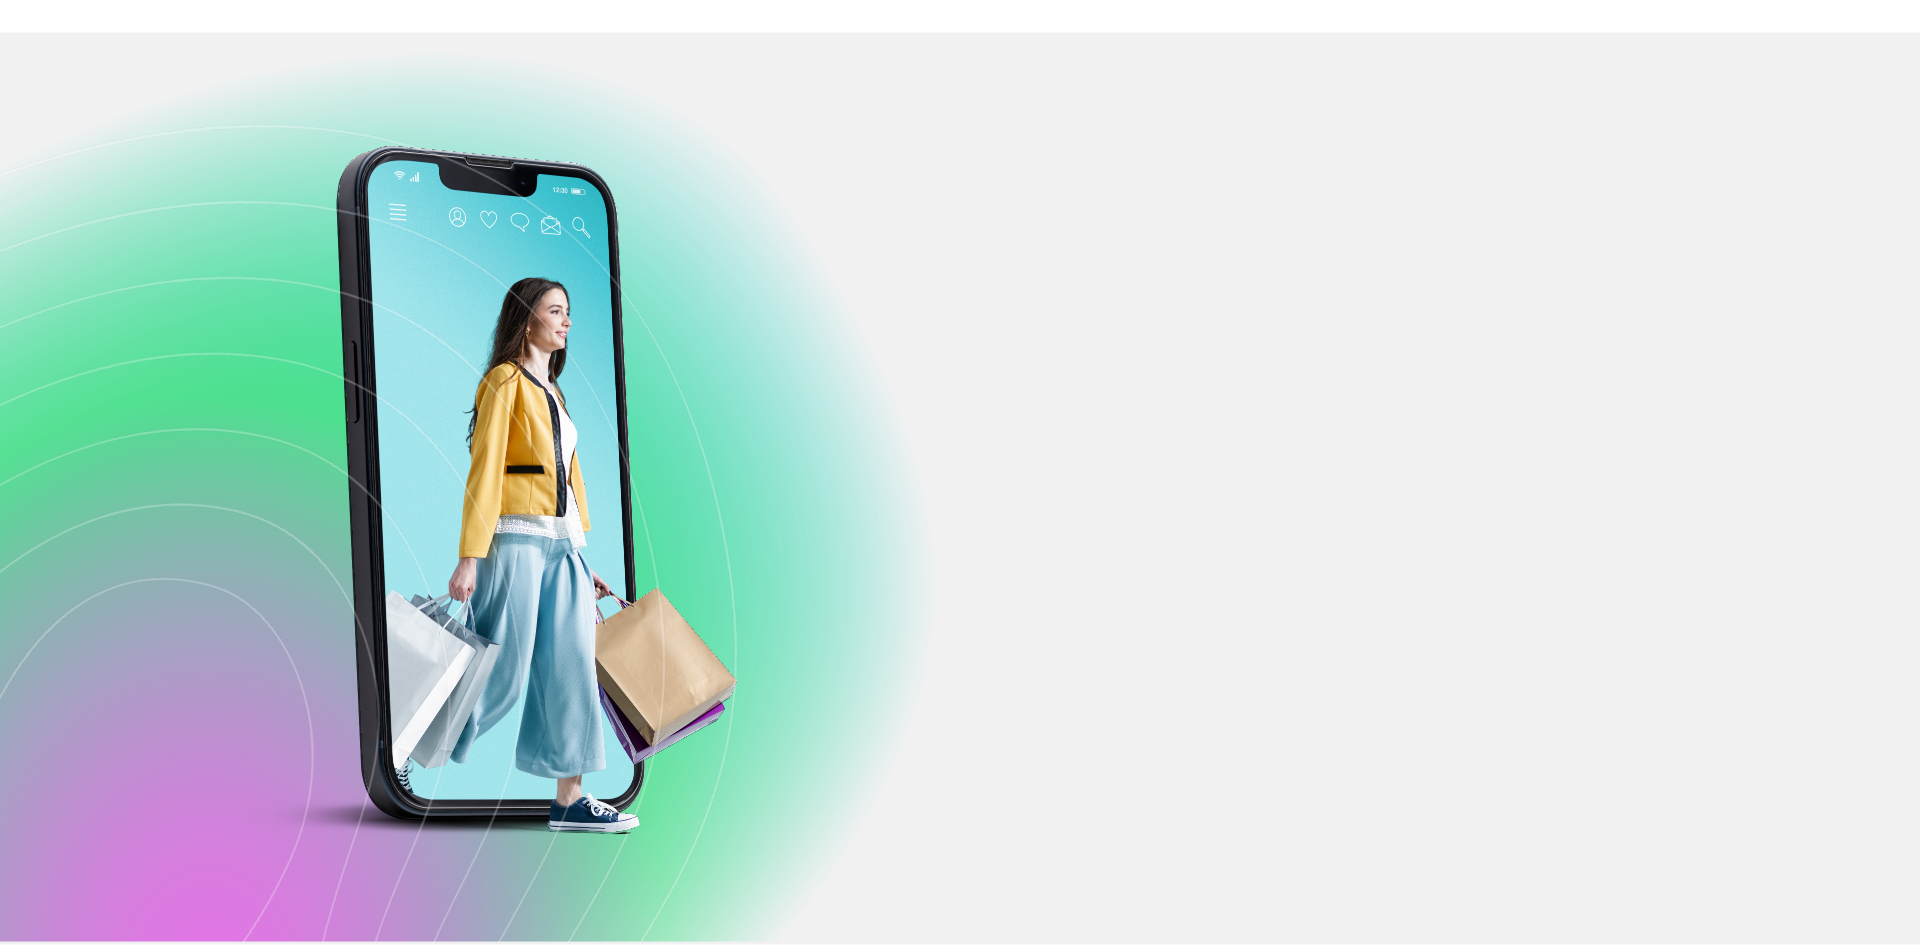
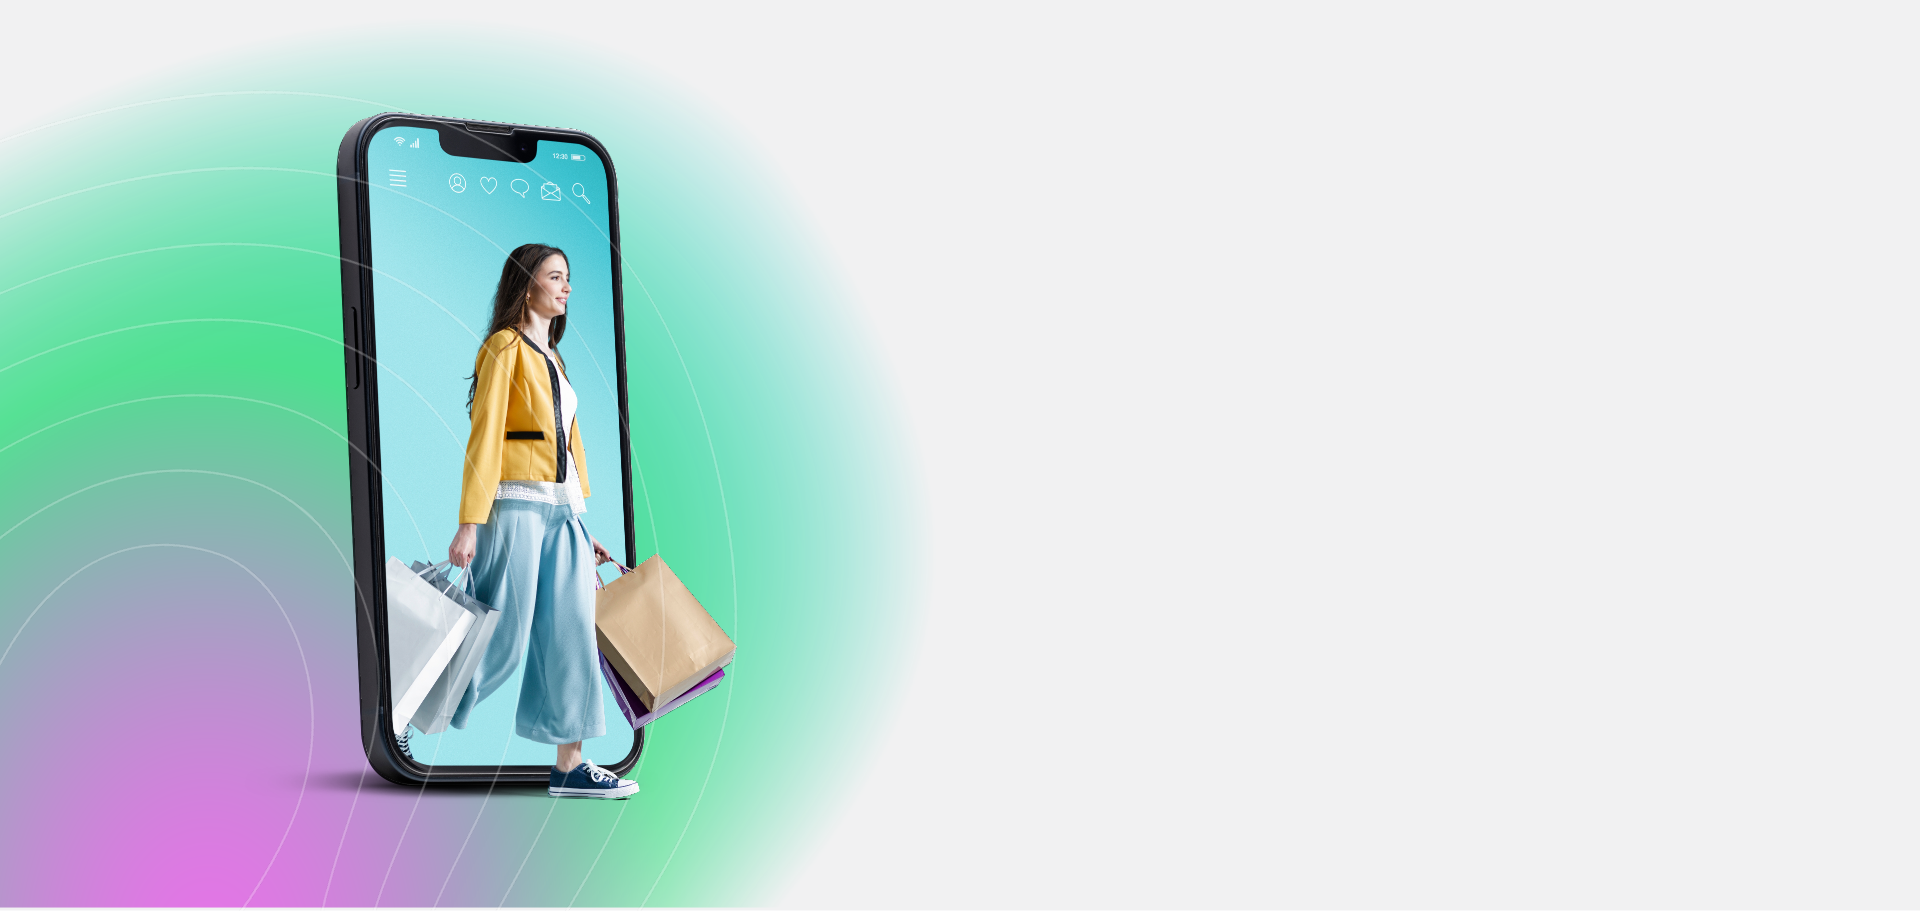
home page completed

diff --git a/index.html b/index.html
@@ -54,7 +54,7 @@
                   </ul>
                   <ul class="navbar-nav navbar-center">
                      <li class="nav-item">
-                        <span class="btn-light-border"><a class="btn btn-light" href="#book-demo">Book a demo <i class="fa fa-angle-right ml-1"></i></a></span>
+                        <span class="btn-light-border"><a class="btn btn-light py-2" href="#book-demo">Book a demo </a></span>
                      </li>
                   </ul>
                </div>
@@ -73,7 +73,7 @@
                      <h2 class="main-heading pt-sm-5 my-5 wow fadeInUp" data-wow-delay="0.3s">Uncovering in-store data blind spots and transforming it into growth
                      </h2>
                      
-                      <a href="#book-demo" class="btn btn-primary book-demo py-3 px-5">BOOK A DEMO</a>
+                      <a href="#book-demo" class="btn btn-primary book-demo py-3 px-5 wow fadeInLeft" data-wow-delay="0.5s">BOOK A DEMO</a>
 
                   </div>
                </div>
@@ -82,15 +82,15 @@
 
          
          <!-- gain-section -->
-         <section class="gain-section" id="our-solution" style="background-image: url('assets/images/gain-bg.png');">
+         <section class="gain-section wow fadeIn" data-wow-delay="0.1s" id="our-solution" style="background-image: url('assets/images/gain-bg.png');">
             <div class="container">
 
                   <div class="row justify-content-center">
                      <div class=" col-12 text-center">
-                        <h2 class="main-heading text-white">Gain a competitive advantage</h2>
-                        <h4 class="main-para">With more than 300 data points about your shopper interactions</h4>
+                        <h2 class="main-heading text-white  wow fadeInUp" data-wow-delay="0.3s">Gain a competitive advantage</h2>
+                        <h4 class="main-para  wow fadeInUp" data-wow-delay="0.5s">With more than 300 data points about your shopper interactions</h4>
                      </div>
-                     <div class=" col-12 col-lg-10 col-xl-8 text-center">
+                     <div class=" col-12 col-lg-10 col-xl-8 text-center  wow fadeInUp" data-wow-delay="0.7s">
                         
                         <div id="gain" class="owl-carousel owl-theme">
                            <div class="item">
@@ -126,7 +126,7 @@
                <div class="row align-items-center justify-content-between">
                   <div class="col-lg-7 col-xl-6 mb-4 mb-lg-0">
                      <h2 class="main-heading wow fadeInDown" data-wow-delay="0.3s">From video footage to increasing in-store ROI</h2>
-                     <p class="mini-text fadeInUp" data-wow-delay="0.4s">Lorem ipsum dolor sit amet, consectetur adipiscing elit, sed do eiusmod tempor incididunt ut labore et dolore magna aliqua. Ut enim ad minim veniam, quis nostrud exercitation ullamco laboris nisi ut aliquip ex ea commodo consequat. Lorem ipsum dolor sit amet, consectetur adipiscing elit, sed do eiusmod tempor
+                     <p class="mini-text  wow fadeInUp" data-wow-delay="0.4s">Lorem ipsum dolor sit amet, consectetur adipiscing elit, sed do eiusmod tempor incididunt ut labore et dolore magna aliqua. Ut enim ad minim veniam, quis nostrud exercitation ullamco laboris nisi ut aliquip ex ea commodo consequat. Lorem ipsum dolor sit amet, consectetur adipiscing elit, sed do eiusmod tempor
                      </p>
                   </div>
                   <div class="col-lg-5 col-xl-6 text-center text-lg-right wow fadeInRight" data-wow-delay="0.4s">
@@ -136,20 +136,64 @@
             </div>
          </section>
 
+           <!-- Our onboarding -->
+           <section class="our-onboarding bg-white" id="onboarding">
+            <div class="container">
+               <h2 class="main-heading text-center pb-md-5 wow fadeInDown" data-wow-delay="0.3s">Effortless and seamless onboarding</h2>
+            </div>
+            <div class="position-relative">
+               <div class="container">
+               
+                  <div class="row text-center">
+                     <div class="col-sm-6 col-lg-3 step-card wow fadeInRight" data-wow-delay="0.3s">
+                        <h3 class="main-heading ">1</h3>
+                        <div class="step-bg">
+                           <img class="img-fluid" src="assets/images/onboarding/integrate.png" alt="integrate">
+                        </div>
+                        <h5>Seamless integration <br> with in-store cameras</h5>
+                     </div>
+                     <div class="col-sm-6 col-lg-3 step-card wow fadeInRight" data-wow-delay="0.5s">
+                        <h3 class="main-heading">2</h3>
+                        <div class="step-bg">
+                           <img class="img-fluid" src="assets/images/onboarding/data.png" alt="data">
+                        </div>
+                        <h5>Receive valuable <br> data after one week</h5>
+                     </div>
+                     <div class="col-sm-6 col-lg-3 step-card wow fadeInRight" data-wow-delay="0.7s">
+                        <h3 class="main-heading ">3</h3>
+                        <div class="step-bg">
+                           <img class="img-fluid" src="assets/images/onboarding/insights.png" alt="insights">
+                        </div>
+                        <h5>Gain game-changing <br> insights about your shoppers</h5>
+                     </div>
+                     <div class="col-sm-6 col-lg-3 step-card wow fadeInRight" data-wow-delay="0.9s">
+                        <h3 class="main-heading ">4</h3>
+                        <div class="step-bg">
+                           <img class="img-fluid" src="assets/images/onboarding/results.png" alt="results">
+                        </div>
+                        <h5>Immediate results <br> after implementing insights at stores</h5>
+                     </div>
+                  </div>
+               </div>
+               <img class="bg-img d-none d-lg-inline  wow fadeInDown" data-wow-delay="0.3s" src="assets/images/onboarding-bg.png" alt="results">
+   
+            </div>
+         </section>
+
          <!-- Hero-section -->
          <section class="hero-section insights-section" >
-            <img class="bg-img" src="assets/images/mobile.png">
+            <img class="bg-img  wow fadeInLeft" data-wow-delay="0.1s" src="assets/images/mobile.png">
             
             <div class="container">
                <div class="row position-relative align-items-center justify-content-end text-center">
                   <div class="col-11 col-md-9 col-lg-7">
                      <h2 class="main-heading pt-sm-5 wow fadeInUp" data-wow-delay="0.3s">Most valuable insights <br> In one platform
                      </h2>
-                     <p class="main-para fadeInUp">
+                     <p class="main-para  wow fadeInDown" data-wow-delay="0.5s">
                         Improving in-store shoppers experience <br> is not a NICE-TO-HAVE tool It’s a MUST-HAVE key to revenue increments
                      </p>
                       
-                      <span class="btn-light-border mt-4">
+                      <span class="btn-light-border mt-4  wow fadeInDown" data-wow-delay="0.6s">
                         <a href="#book-demo" class="btn btn-light book-demo py-3 px-5">Book a Demo</a>
                       </span>
                   </div>
@@ -162,9 +206,9 @@
             <div class="container">
                <div class="row">
                   <div class="col-12 text-center">
-                     <h2 class="main-heading mb-1 pt-md-5">Know your shopper globally</h2>
-                     <h4 class="main-para">Real-time data on a local and global scale</h4>
-                     <img class="img-fluid" src="assets/images/alerts-usa-map.png" alt="">
+                     <h2 class="main-heading mb-1 pt-md-5 wow fadeInDown" data-wow-delay="0.1s">Know your shopper globally</h2>
+                     <h4 class="main-para  wow fadeInDown" data-wow-delay="0.3s">Real-time data on a local and global scale</h4>
+                     <img class="img-fluid  wow fadeInUp" data-wow-delay="0.3s" src="assets/images/alerts-usa-map.png" alt="">
                   </div>
                </div>
             </div>
@@ -173,7 +217,7 @@
          <!-- Testemonials -->
          <section class="testemonial" id="case-studies">
             <div class="container">
-               <div class="row justify-content-center">
+               <div class="row justify-content-center wow fadeInRight" data-wow-delay="0.1s">
                   <div class="col-lg-8">
                      <h4 class="main-heading text-center mb-4 mb-md-5 mt-3 wow fadeInUp" data-wow-delay="0.3s">Success stories</h4>
                      <div class="text-right">
@@ -240,7 +284,7 @@
                <div class="row trusted-block mt-5">
                   <div class="col-lg-12">
                      <ul>
-                        <li class="wow fadeInRight" data-wow-delay="0.6s"><a href="javascript:void(0)"></a><img src="assets/images/partner/pg.png" alt="pg"></li>
+                        <li class="wow fadeInRight" data-wow-delay="0.1s"><a href="javascript:void(0)"></a><img src="assets/images/partner/pg.png" alt="pg"></li>
                         <li class="wow fadeInRight" data-wow-delay="0.3s"><a href="javascript:void(0)"></a><img src="assets/images/partner/nestle.png" alt="Nestle"></li>
                         <li class="wow fadeInRight" data-wow-delay="0.4s"><a href="javascript:void(0)"></a><img src="assets/images/partner/coca-cola.png" alt="Coca Cola"></li>
                         <li class="wow fadeInRight" data-wow-delay="0.5s"><a href="javascript:void(0)"></a><img src="assets/images/partner/strauss.png" alt="Strauss"></li>
@@ -257,6 +301,8 @@
       <!-- Footer -->
       <footer id="book-demo">
          <section>
+            <img class="bg-img wow fadeInLeft" data-wow-delay="0.3s" src="assets/images/man-with-mobile.png" alt="results">
+
             <div class="container">
                <div class="row justify-content-end">
                   
@@ -264,39 +310,45 @@
                      <!-- <img src="assets/images/man-with-mobile.png" alt=""> -->
                   </div>
                   <div class="col-lg-6">
-                     <h2 class="main-heading text-center pb-md-5">Want truly understand your shopper?</h2>
-                     <form class="pt-4">
+                     <h2 class="main-heading text-center pb-md-5 wow fadeInUp" data-wow-delay="0.3s">Want truly understand your shopper?</h2>
+                     <form class="pt-4 wow fadeInUp" data-wow-delay="0.1s">
                         <div class="row">
-                           <div class="col-md-6">
+                           <div class="col-md-6 wow fadeInRight" data-wow-delay="0.1s">
                               <div class="form-group">
                                  <input type="text" class="form-control" placeholder="Full Name">
                               </div>
                            </div>
-                           <div class="col-md-6">
+                           <div class="col-md-6 wow fadeInRight" data-wow-delay="0.3s">
                               <div class="form-group">
                                  <input type="text" class="form-control" placeholder="Phone">
                               </div>
                            </div>
-                           <div class="col-md-12">
+                           <div class="col-md-12 wow fadeInRight" data-wow-delay="0.1s">
                               <div class="form-group">
                                  <input type="text" class="form-control" placeholder="Email">
                               </div>
                            </div>
                         </div>
                         <div class="row">
-                           <div class="col-md-6">
+                           <div class="col-md-6  wow fadeInRight" data-wow-delay="0.3s">
                               <div class="form-group">
                                  <input type="text" class="form-control" placeholder="Job Title">
                               </div>
                            </div>
                            <div class="col-md-6">
-                              <div class="form-group">
+                              <div class="form-group  wow fadeInRight" data-wow-delay="0.5s">
                                  <input type="text" class="form-control" placeholder="Company">
                               </div>
                            </div>
                         </div>
-                        <button type="submit" class="btn py-3 btn-light btn-block mt-5">Submit</button>
+                        <button type="submit" class="btn py-3 btn-light btn-block mt-5  wow fadeInRight" data-wow-delay="0.7s">Submit</button>
                      </form>
+
+                     <div class="d-flex justify-content-center mt-3">
+                        <a href="#" class="social-links  wow fadeInRight" data-wow-delay="0.3s"> <i class="fa-brands fa-linkedin"></i></a>
+                        <a href="#" class="social-links  wow fadeInRight" data-wow-delay="0.5s"> <i class="fa-brands fa-square-twitter"></i></a>
+                        <a href="#" class="social-links  wow fadeInRight" data-wow-delay="0.7s"> <i class="fa-brands fa-square-youtube"></i></a>
+                     </div>
                   </div>
                </div>
             </div>

diff --git a/assets/css/style.css b/assets/css/style.css
@@ -306,11 +306,62 @@ main {
     padding-top: 50px;
 }
 
+/* .Our onboarding  */
+.our-onboarding .row{
+    min-height: 250px;
+    z-index: 10;
+    position: relative;
+}
+.our-onboarding .step-card{
+    margin: 20px auto;
+}
+.our-onboarding .step-bg{
+    background-color: #fff;
+    display: inline-block;
+    height: 120px;
+    width: 120px;
+    display: flex;
+    justify-content: center;
+    align-items: center;
+    margin: 20px auto;
+}
+.our-onboarding .bg-img{
+    position: absolute;
+    z-index: 0;
+    object-fit: cover;
+    width: 100%;
+       height: 100%;
+    bottom:40px;
+    left: 0;
+    right: 0;
+    /*    transform: translate(-50%, -50%);*/
+}
+
 /* footer  */
 
 footer{
-    background: transparent linear-gradient(220deg, #4DDF8E 0%, #4CDE9D 10%, #4BDCAF 20%, #4ADAC0 30%, #49D8D2 40%, #49D5E4 50%, #77B8E4 60%, #9F9FE5 70%, #BF8AE5 80%, #D77CE5 90%, var(--unnamed-color-e275e6) 100%) 0% 0% no-repeat padding-box;
+    position: relative;
+    margin-top: 100px;
+    background: transparent linear-gradient(220deg, #4DDF8E 0%, #4CDE9D 10%, #4BDCAF 20%, #4ADAC0 30%, #49D8D2 40%, #49D5E4 50%, #77B8E4 60%, #9F9FE5 70%, #BF8AE5 80%, #D77CE5 90%, #e275e6 100%) 0% 0% no-repeat padding-box;
     background: transparent linear-gradient(220deg, #4DDF8E 0%, #4CDE9D 10%, #4BDCAF 20%, #4ADAC0 30%, #49D8D2 40%, #49D5E4 50%, #77B8E4 60%, #9F9FE5 70%, #BF8AE5 80%, #D77CE5 90%, #E275E6 100%) 0% 0% no-repeat padding-box;
+}
+footer .social-links{
+    color: #000000;
+    text-decoration: none;
+    font-size: 30px;
+    padding: 12px;
+}
+footer .social-links:hover{
+    color: #fff;
+}
+footer .bg-img{
+    position: absolute;
+    z-index: 0;
+    object-fit: cover;
+    /* width: 100%; */
+    bottom:0px;
+    /* left: -200px; */
+    /*    transform: translate(-50%, -50%);*/
 }
 
 .owl-carousel .owl-prev,
@@ -415,6 +466,16 @@ footer{
     }
     .roi-section .row{
         min-height: 450px;
+    }
+    footer{
+        padding-top: 300px;
+        margin-top: 400px;
+    }
+    footer .bg-img{
+        top: -400px;
+        left: 10%;
+        margin-bottom: 30px;
+        max-height: 700px;
     }
   
 }
